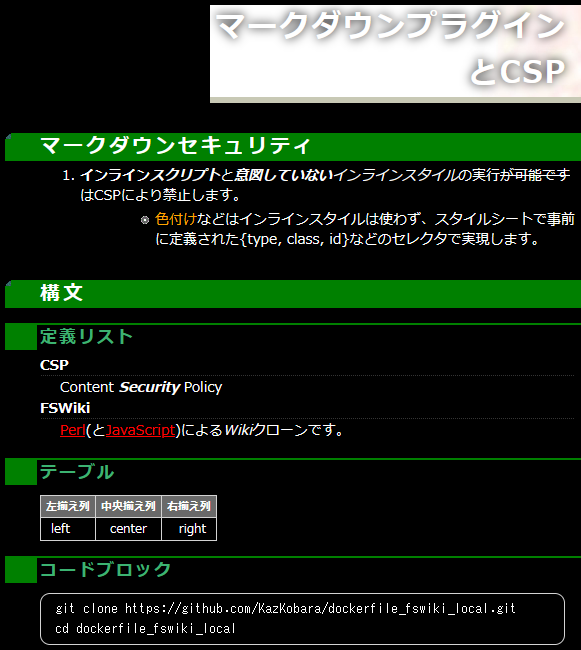
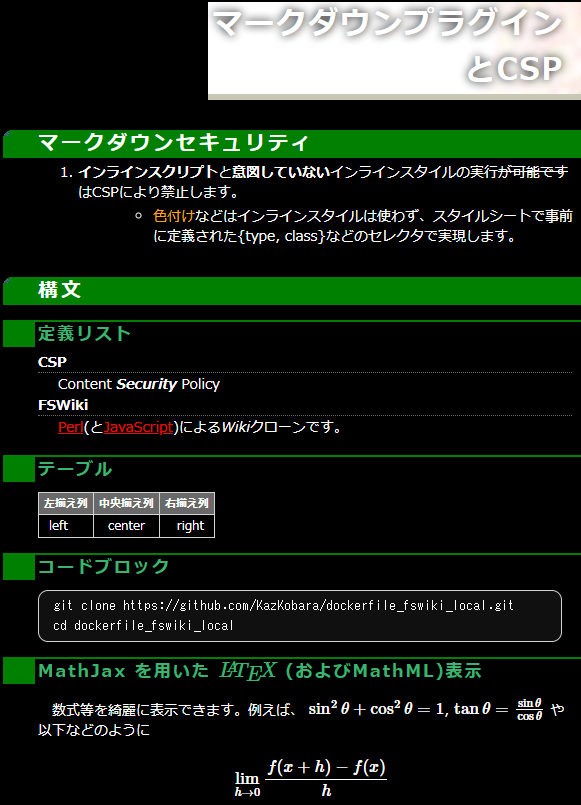
fixup! Add MathJax, LaTeX and MathML

diff --git a/README.md b/README.md
@@ -1,14 +1,18 @@
 # FSWiki 用ダークテーマ kati_dark
 
 FSWiki に標準で含まれております kitta 氏の [kati](https://fswiki.osdn.jp/cgi-bin/wiki.cgi?page=BugTrack%2Dtheme%2F4) theme をダークに変換したものです。
-[Markdown Plugin や Content Security Policy (CSP) のための修正](https://kazkobara.github.io/kati_dark/docs/markdown/markdown_plugin_for_fswiki.html "https://kazkobara.github.io/kati_dark/docs/markdown/markdown_plugin_for_fswiki.html") も加えてます。
-
-動作や見た目は自分の使っている範囲でしか確認できていないのと、画像などのパーツは改良の余地がありますので、有志の方々に
-改良してもらえることを期待して(本体に取り込まれるまでは)こちらで公開してメンテナンスすることに致しました。
 
 ## スクリーンショット
 
-![スクリーンショット](./docs/screenshot.png)
+![スクリーンショット](./docs/screenshot.png "kati_dark screenshot")
+
+Markdown Plugin や Content Security Policy (CSP) のための修正も加えてます。
+以下の画像のように、Markdownブロック内外で、MathJax を用いて LaTeX と MathML を表示させる方法の検討も行っております。詳しくは[こちら](https://kazkobara.github.io/kati_dark/docs/markdown/markdown_plugin_for_fswiki.html "https://kazkobara.github.io/kati_dark/docs/markdown/markdown_plugin_for_fswiki.html")をご参照下さい。
+
+![markdown_screenshot](https://raw.githubusercontent.com/KazKobara/kati_dark/main/docs/markdown/markdown_screenshot_jp.png "Markdown Screenshot")
+
+動作や見た目は自分の使っている範囲でしか確認できていないのと、画像などのパーツは改良の余地がありますので、有志の方々に
+改良してもらえることを期待して(本体に取り込まれるまでは)こちらで公開してメンテナンスすることに致しました。
 
 ## 適用方法
 

diff --git a/docs/markdown/markdown_plugin_for_fswiki.md b/docs/markdown/markdown_plugin_for_fswiki.md
@@ -75,7 +75,7 @@ cd dockerfile_fswiki_local
 
 ### FSWikiを使われていない場合
 
-- FSWiki やその Markdown Plugin 、MathJax による LaTeX (および MathML)表示などは、[ローカルユース用 Docker FSWiki]でも試すことができます。
+- FSWiki やその Markdown Plugin 、MathJax による LaTeX および MathML 表示などは、[ローカルユース用 Docker FSWiki]でも試すことができます。
   - デフォルトで CSP の設定なども有効になっております。
 
 ### FSWikiを使われている場合
